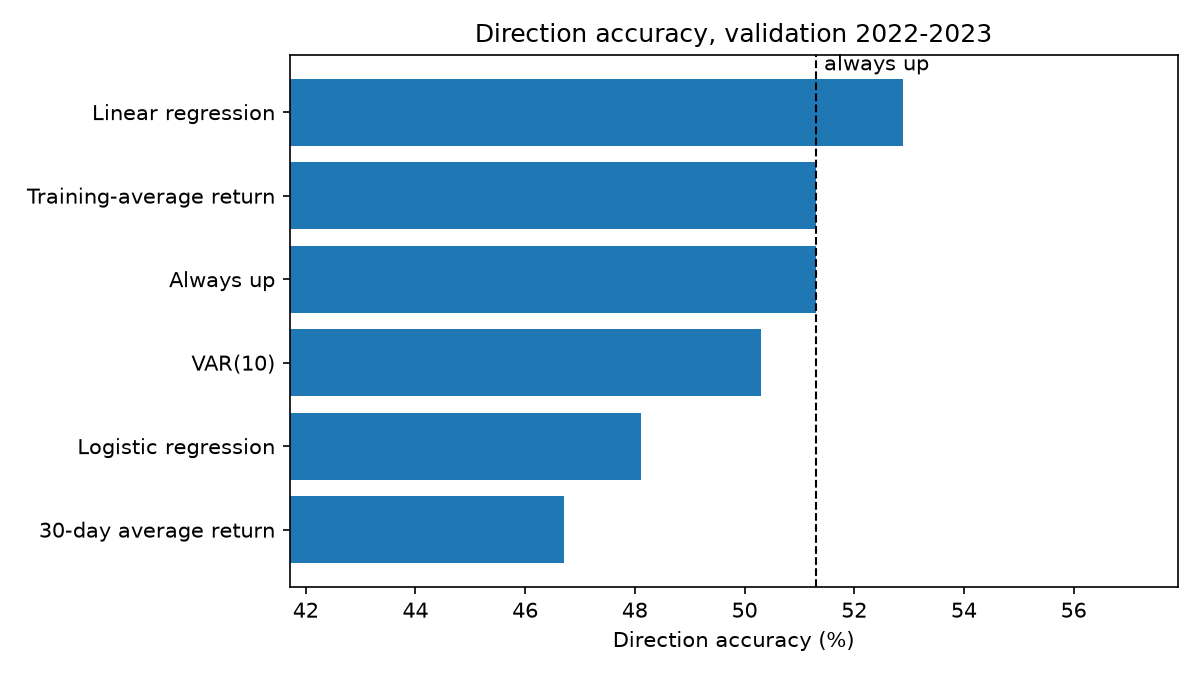
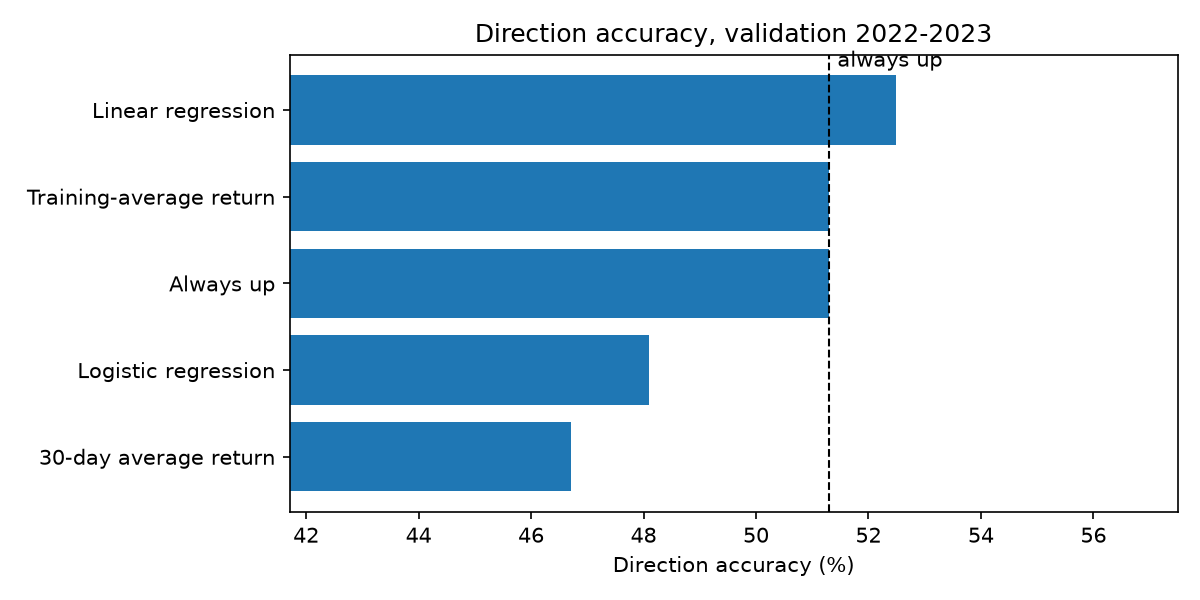
feat(stock-forecast): score validation baselines

Changed region(s): [[0.0308, 0.03, 0.9867, 0.96], [0.0308, 0.75, 0.2467, 0.81]]

diff --git a/apps/stock-forecast/scripts/0002-evaluate-baselines.py b/apps/stock-forecast/scripts/0002-evaluate-baselines.py
@@ -1,20 +1,27 @@
-"""Score the baselines, regressions and the VAR on the validation years.
+"""Score the six baseline forecasts on the 2022-2023 validation years.
 
-Appends every row to reports/results.csv and saves a direction chart.
+Appends every run to reports/results.csv and saves a direction chart.
 """
 import _bootstrap  # noqa: F401
 import pandas as pd
 
 from stock_forecast import config
 from stock_forecast.data import split_by_date
-from stock_forecast.evaluate import append_results, plot_direction_accuracy
+from stock_forecast.evaluate import append_results, failed_run_row, plot_direction_accuracy
 from stock_forecast.pipeline import classical_predictions, load_dataset, score_all
 
-# Score every baseline on the same validation dates before judging the LSTM.
-splits = split_by_date(load_dataset())
-preds, info = classical_predictions(splits.train, splits.val, history=splits.train)
-actual = splits.val["target"].to_numpy()
-rows = score_all(preds, actual, split="validation")
+# Record a timestamped failure too, so a broken experiment is still visible.
+try:
+    splits = split_by_date(load_dataset())
+    # Keep Dec 2021 as input history while fitting only labels known by year-end.
+    preds, _ = classical_predictions(splits.train, splits.val, history=splits.train, include_var=False)
+    actual = splits.val["target"].to_numpy()
+    rows = score_all(preds, actual, split="validation")
+except Exception as error:
+    append_results([failed_run_row(error)], config.RESULTS_CSV, run="baselines")
+    raise
+
+# Every model above uses the same 2022-2023 target dates.
 append_results(rows, config.RESULTS_CSV, run="baselines")
 
 table = pd.DataFrame(rows)
@@ -23,6 +30,4 @@ plot_direction_accuracy(table, always_up_rate, config.REPORTS_DIR / "direction_a
                         "Direction accuracy, validation 2022-2023")
 pd.set_option("display.width", 120)
 print(table.to_string(index=False))
-if info["var_order"] is not None:
-    print(f"\nVAR order chosen by AIC on the training years: {info['var_order']}")
 print(f"Always-up rate on validation: {always_up_rate:.1%}")

diff --git a/apps/stock-forecast/src/stock_forecast/pipeline.py b/apps/stock-forecast/src/stock_forecast/pipeline.py
@@ -37,25 +37,32 @@ def load_dataset() -> pd.DataFrame:
 
 
 def classical_predictions(
-    train: pd.DataFrame, part: pd.DataFrame, history: pd.DataFrame
+    train: pd.DataFrame, part: pd.DataFrame, history: pd.DataFrame, include_var: bool = True
 ) -> tuple[dict[str, Prediction], dict]:
     """Fit every non-neural model on train and forecast each day of part."""
     n = len(part)
+    # The final training row's target belongs to the first day in part. Keep
+    # that row as history, but never use its cross-boundary label to fit.
+    fit_train = train.iloc[:-1]
     # Keep simple baselines beside learned models so each score has context.
     preds: dict[str, Prediction] = {
         "Naive (return = 0)": Prediction(naive_returns(n), include_direction=False),
         "Always up": Prediction(None, always_up(n)),
-        "Training-average return": Prediction(mean_returns(train, n)),
+        "Training-average return": Prediction(mean_returns(fit_train, n)),
         f"{config.MA_WINDOW}-day average return": Prediction(moving_average_returns(part, history=history)),
     }
 
     # Training features and labels align after removing rows without a full lookback.
-    X_train = lag_matrix(train)
-    y_train = aligned_rows(train)["target"].to_numpy()
+    X_train = lag_matrix(fit_train)
+    y_train = aligned_rows(fit_train)["target"].to_numpy()
     # Past-split history fills the first window without using future rows.
     X_part = lag_matrix(part, history=history)
     preds["Linear regression"] = Prediction(fit_linear(X_train, y_train).predict(X_part))
     preds["Logistic regression"] = Prediction(None, fit_logistic(X_train, y_train > 0).predict(X_part).astype(bool))
+
+    # Baseline scoring ends here; VAR remains available to the other workflows.
+    if not include_var:
+        return preds, {"var_order": None}
 
     try:
         order = select_order(train[config.VAR_COLUMNS])

diff --git a/apps/stock-forecast/tests/test_pipeline.py b/apps/stock-forecast/tests/test_pipeline.py
@@ -24,6 +24,26 @@ class ClassicalPipelineTests(unittest.TestCase):
                     self.assertEqual(len(values), len(self.splits.val), name)
                     self.assertFalse(np.isnan(np.asarray(values, dtype=float)).any(), name)
 
+    def test_baseline_score_set_is_six_models_on_all_validation_days(self):
+        preds, _ = classical_predictions(
+            self.splits.train, self.splits.val, history=self.splits.train, include_var=False
+        )
+        self.assertEqual(list(preds), [
+            "Naive (return = 0)", "Always up", "Training-average return",
+            "30-day average return", "Linear regression", "Logistic regression",
+        ])
+        for prediction in preds.values():
+            forecasts = prediction.returns if prediction.returns is not None else prediction.up
+            self.assertEqual(len(forecasts), len(self.splits.val))
+
+    def test_training_average_excludes_label_that_crosses_validation_boundary(self):
+        preds, _ = classical_predictions(
+            self.splits.train, self.splits.val, history=self.splits.train, include_var=False
+        )
+        actual_fit_mean = self.splits.train.iloc[:-1]["target"].mean()
+        expected = np.full(len(self.splits.val), actual_fit_mean)
+        np.testing.assert_allclose(preds["Training-average return"].returns, expected)
+
     def test_var_order_is_chosen_within_range(self):
         self.assertIn(self.info["var_order"], range(1, 11))
         self.assertTrue(any(name.startswith("VAR(") for name in self.preds))

diff --git a/apps/stock-forecast/tests/test_evaluate.py b/apps/stock-forecast/tests/test_evaluate.py
@@ -6,7 +6,7 @@ import numpy as np
 import pandas as pd
 
 from stock_forecast.evaluate import (append_results, direction_accuracy, mae, plot_actual_vs_predicted,
-                                     plot_direction_accuracy, plot_loss, plot_walk_forward, predicted_prices,
+                                     failed_run_row, plot_direction_accuracy, plot_loss, plot_walk_forward, predicted_prices,
                                      rmse, score)
 
 
@@ -52,6 +52,17 @@ class ReportTests(unittest.TestCase):
             log = pd.read_csv(path)
         self.assertEqual(list(log["run"]), ["first", "second"])
         self.assertIn("logged_at", log.columns)
+
+    def test_failed_baseline_run_is_logged_with_timestamp(self):
+        with tempfile.TemporaryDirectory() as folder:
+            path = Path(folder) / "results.csv"
+            error = ValueError("synthetic failure")
+            append_results([failed_run_row(error)], path, run="baselines")
+            row = pd.read_csv(path).iloc[0]
+        self.assertEqual(row["run"], "baselines")
+        self.assertEqual(row["days"], 0)
+        self.assertTrue(str(row["logged_at"]))
+        self.assertIn("synthetic failure", row["model"])
 
     def test_charts_are_written(self):
         dates = pd.bdate_range("2024-01-01", periods=80)

diff --git a/apps/stock-forecast/src/stock_forecast/evaluate.py b/apps/stock-forecast/src/stock_forecast/evaluate.py
@@ -72,6 +72,17 @@ def score(
     }
 
 
+def failed_run_row(error: Exception, split: str = "validation") -> dict:
+    """Represent a failed experiment in the same append-only results log."""
+    return {
+        "model": f"Baseline run failed ({type(error).__name__}: {error})",
+        "split": split,
+        "days": 0,
+        "return_rmse": None,
+        "direction_accuracy": None,
+    }
+
+
 def append_results(rows: list[dict], path: Path, run: str) -> pd.DataFrame:
     """Append rows to the results log, so every experiment is kept, good or bad."""
     # Timestamp each run and append instead of replacing history.

diff --git a/apps/stock-forecast/README.md b/apps/stock-forecast/README.md
@@ -65,6 +65,14 @@ Run from `apps/stock-forecast` with the virtual environment active.
 
 `0003-train-lstm.py --features ret spy_ret volume_change` trains on several columns. `0005` accepts `--model lstm`, `var` or `linear`, and refuses to rerun the test unless given `--force`.
 
+`0002-evaluate-baselines.py` scores six forecasts on the same 2022-2023
+validation dates: zero return, always up, 30-day average, training average,
+linear regression and logistic regression. The 2021 rows supply history for
+the first validation forecast, while fitted targets stop before a label that
+would cross into validation. Each run is appended to `reports/results.csv`
+with a UTC timestamp; failed runs are recorded there before the error is raised.
+The direction chart is saved as `reports/direction_accuracy_validation.png`.
+
 ## Tests
 
 ```powershell
